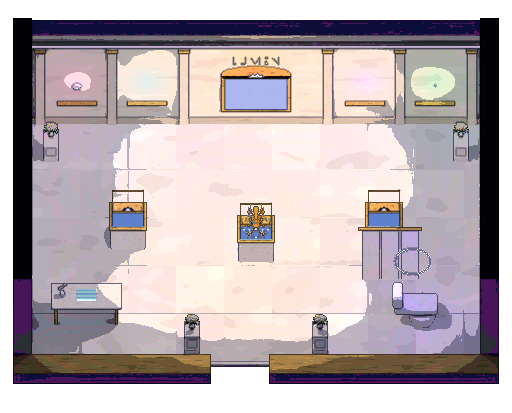
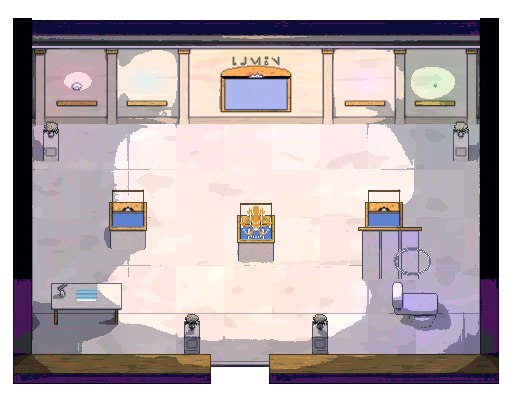
Lumen's boutique: its chandelier shines gold and lit in the toy finish
Claude-Session: https://claude.ai/code/session_018nrKREDsAd8AvHNKa8Q1tE

diff --git a/tools/bridge-art/scenes/arcadia_boutique.py b/tools/bridge-art/scenes/arcadia_boutique.py
@@ -14,6 +14,7 @@ import math
 import sys
 
 from _spires_room import SP, E, CA, PH, S, Kit, shade, render, look, out_door, write_world  # noqa: F401
+E.GLEAM = True                                    # chandeliers and candles stay bright through the toy finish
 
 OUT = sys.argv[1]
 WID = 'arcadia-boutique'
